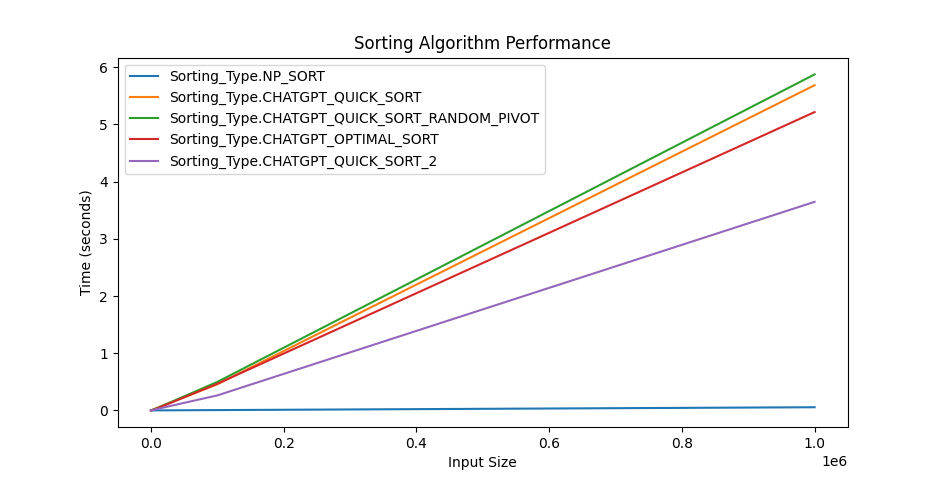
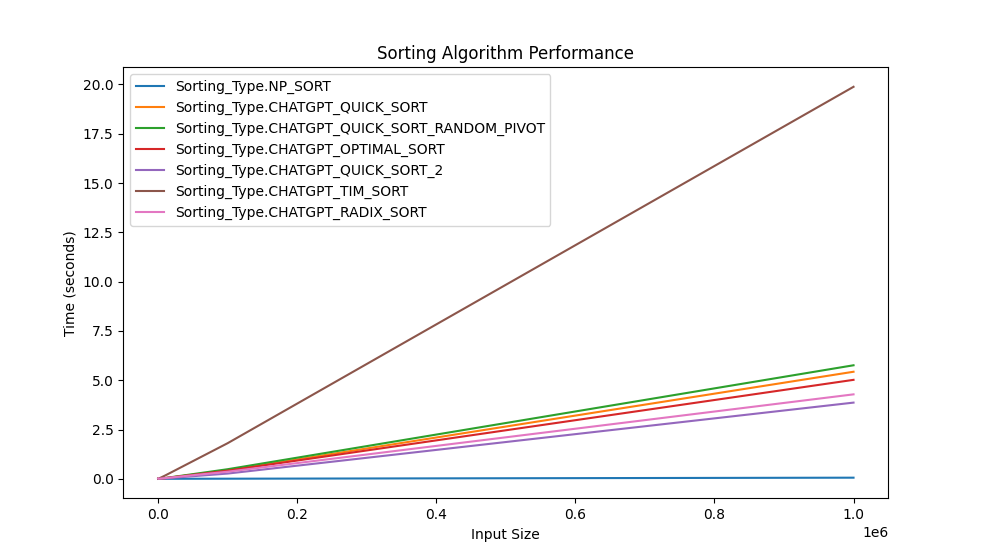
add 2 more sorting algorithms from chatgpt

diff --git a/main.py b/main.py
@@ -18,6 +18,8 @@ class Sorting_Type(Enum):
     CHATGPT_QUICK_SORT_RANDOM_PIVOT = 3
     CHATGPT_OPTIMAL_SORT = 4
     CHATGPT_QUICK_SORT_2 = 5
+    CHATGPT_TIM_SORT = 6
+    CHATGPT_RADIX_SORT = 7
 
 def init_array_i32(N):
     arr = np.random.randint(0, 2**31-1, size=N, dtype=np.int32)
@@ -96,6 +98,78 @@ def chatgpt_quicksort_2(arr):
     right = [x for x in arr if x > pivot]
     return chatgpt_quicksort_2(left) + middle + chatgpt_quicksort_2(right)
 
+###
+# PROMPT: Write a timsort algorithm for sorting 1000000 random int32 values.
+def chatgpt_timsort(arr):
+    minrun = 256
+    n = len(arr)
+    for i in range(0, n, minrun):
+        chatgpt_insertion_sort(arr, i, min((i + minrun - 1), n - 1))
+    size = minrun
+    while size < n:
+        for start in range(0, n, size):
+            midpoint = start + size - 1
+            end = min((start + size * 2 - 1), (n-1))
+            chatgpt_merge(arr, start, midpoint, end)
+        size *= 2
+    return arr
+
+def chatgpt_insertion_sort(arr, left, right):
+    for i in range(left + 1, right + 1):
+        key_item = arr[i]
+        j = i - 1
+        while j >= left and arr[j] > key_item:
+            arr[j + 1] = arr[j]
+            j -= 1
+        arr[j + 1] = key_item
+
+def chatgpt_merge(arr, start, midpoint, end):
+    first_half = arr[start:midpoint + 1]
+    second_half = arr[midpoint + 1:end + 1]
+    k = start
+    i = 0
+    j = 0
+    while i < len(first_half) and j < len(second_half):
+        if first_half[i] < second_half[j]:
+            arr[k] = first_half[i]
+            i += 1
+        else:
+            arr[k] = second_half[j]
+            j += 1
+        k += 1
+    while i < len(first_half):
+        arr[k] = first_half[i]
+        i += 1
+        k += 1
+    while j < len(second_half):
+        arr[k] = second_half[j]
+        j += 1
+        k += 1
+###
+
+# PROMPT: Give me the most optimized chatgpt sorting algorithm for sorting 1 million elements of int32 values
+def chatgpt_radix_sort(arr):
+    RADIX = 10
+    maxLength = False
+    tmp, placement = -1, 1
+
+    while not maxLength:
+        maxLength = True
+        buckets = [list() for _ in range(RADIX)]
+        for i in arr:
+            tmp = i // placement
+            buckets[tmp % RADIX].append(i)
+            if maxLength and tmp > 0:
+                maxLength = False
+        a = 0
+        for b in range(RADIX):
+            buck = buckets[b]
+            for i in buck:
+                arr[a] = i
+                a += 1
+        placement *= RADIX
+    return arr
+
 orders_of_magnitude = 6
 
 execution_time_dict = {
@@ -104,6 +178,8 @@ execution_time_dict = {
     Sorting_Type.CHATGPT_QUICK_SORT_RANDOM_PIVOT: {},
     Sorting_Type.CHATGPT_OPTIMAL_SORT: {},
     Sorting_Type.CHATGPT_QUICK_SORT_2: {},
+    Sorting_Type.CHATGPT_TIM_SORT: {},
+    Sorting_Type.CHATGPT_RADIX_SORT: {},
 }
 
 print(execution_time_dict)
@@ -147,6 +223,19 @@ for i in range(1, orders_of_magnitude + 1):
     endTime = datetime.now()
     execution_time_dict[Sorting_Type.CHATGPT_QUICK_SORT_2].update({elms: endTime - startTime})
 
+    #chatgpt tim sort
+    arr = init_array_i32(elms)
+    startTime = datetime.now()
+    chatgpt_timsort(arr)
+    endTime = datetime.now()
+    execution_time_dict[Sorting_Type.CHATGPT_TIM_SORT].update({elms: endTime - startTime})
+
+    #chatgpt tim sort
+    arr = init_array_i32(elms)
+    startTime = datetime.now()
+    chatgpt_radix_sort(arr)
+    endTime = datetime.now()
+    execution_time_dict[Sorting_Type.CHATGPT_RADIX_SORT].update({elms: endTime - startTime})
 
     #new line formatting
     print()
